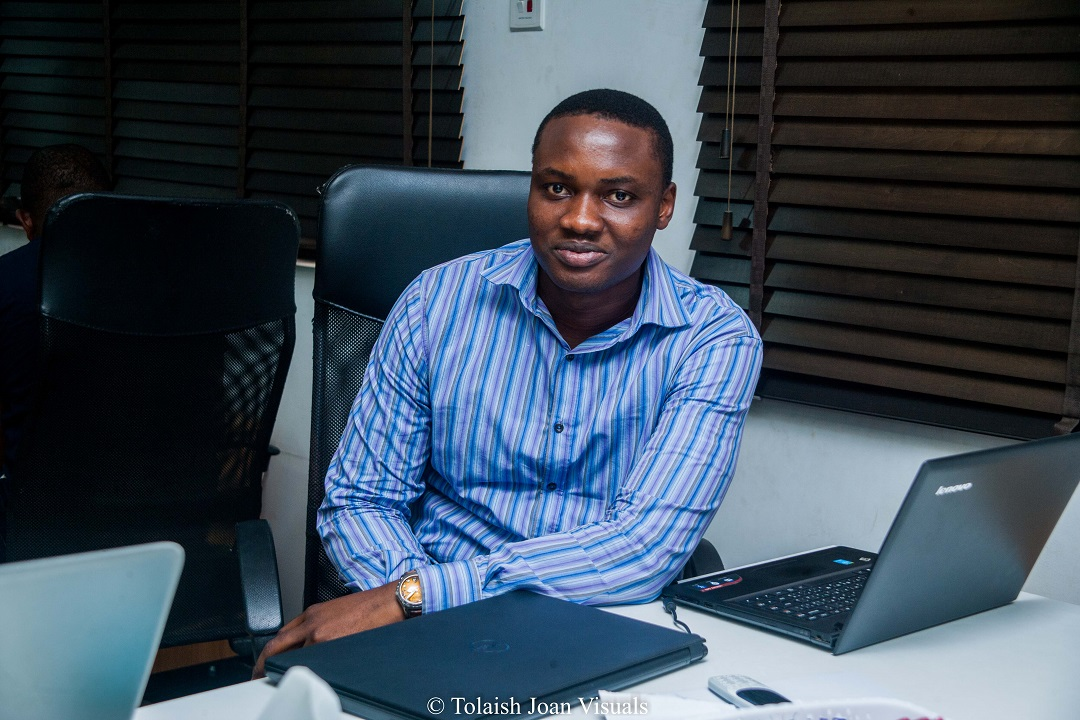
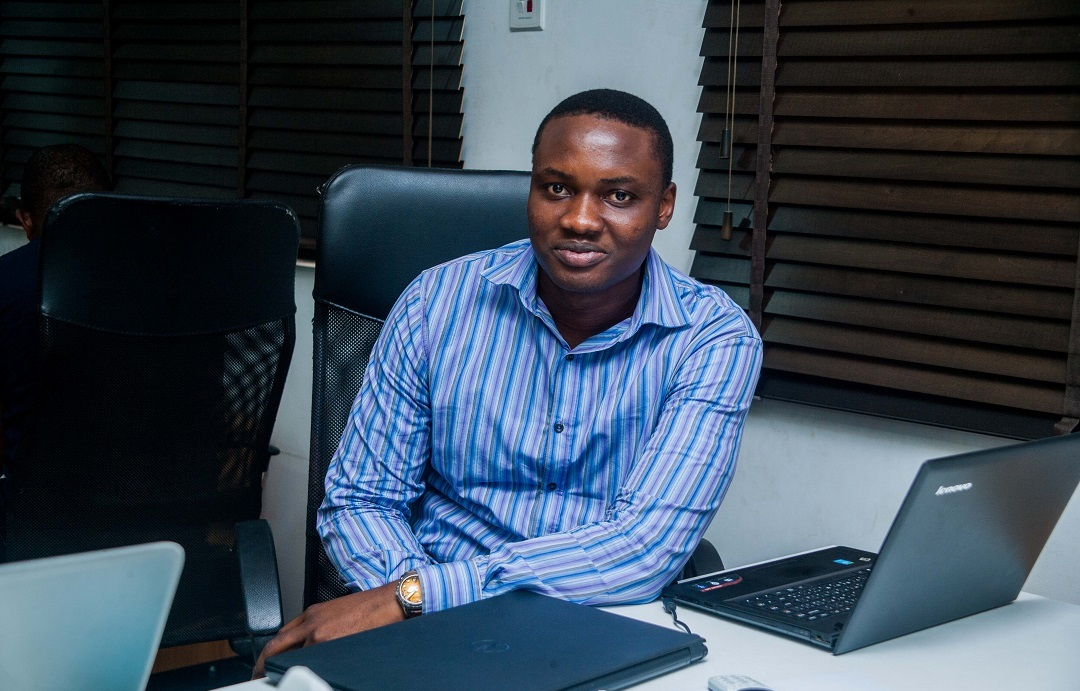
home page switch

diff --git a/src/index.css b/src/index.css
@@ -27,14 +27,14 @@ body {
   color: #000;
   overflow-x: hidden;
   word-spacing: .5rem;
-  display: flex;
-  flex-direction: column;
+  
   min-height: 100vh;
 }
 /* Navbar  */
 .bar{
   background: linear-gradient(90deg,#000,#0f0f0f) !important;
   color: #f3f3f3;
+  
 }
 /* Footer */
 .footer{
@@ -49,13 +49,37 @@ body {
 }
 /* buttons on home page */
 .cta-button {
-
+  background-color: #04011a; /* A vibrant purple */
+  color: white;
+  padding: 10px 20px;
+  border: none;
+  border-radius: 4px; /* Rounded corners */
+  font-size: 16px;
+  cursor: pointer;
+  transition: all 0.3s ease; /* Smooth transition for hover effects */
+  margin: 10px 10px;
+  box-shadow: 0 4px 10px rgba(0, 0, 0, 0.2); /* Subtle shadow */
 }
 
 .cta-button:hover {
-  background-color: #0056b3;
+  background-color: #02000d; /* Lighter purple on hover */
+  transform: translateY(-1px); /* Slight lift effect */
+  box-shadow: 0 6px 15px rgba(0, 0, 0, 0.3); /* More prominent shadow on hover */
 }
 
+/* secondary button  */
+.cta-button.secondary {
+  background-color: transparent;
+  color: #6c5ce7;
+  border: 2px solid #6c5ce7; /* Border matching the primary button's color */
+  box-shadow: none; /* No shadow for the secondary button initially */
+}
+
+.cta-button.secondary:hover {
+  background-color: #6c5ce7;
+  color: white;
+  box-shadow: 0 4px 10px rgba(0, 0, 0, 0.2);
+}
 /* portfolio page buttons fixed in App css*/
 
 .jumbotron {
@@ -81,36 +105,51 @@ code {
   
 }
 /* background image on the home page */
-.hero{
-  /* font-family: 'DynaPuff', cursive !important; */
-  background-image: linear-gradient(rgba(0, 0, 0, 0.1),
-   rgba(0, 0, 0, 0.2)),
-   url('./assets/img/hero/jt2_norm.jpg');
-  background-color: #5544ff30;
-  background-repeat: no-repeat;
-  background-position: center;
-  background-size: cover;
-  height: 100vh;
-}
-    
-
-.heromsg{
-  text-align: center;
-  position: absolute;
-  top: 60%;
-  left: 40%;
-  transform: translate(-50%, -50%);
-  color: white;
-  margin: auto;
-}
-.hero-buttons {
+.hero-content{
   display: flex;
-  flex-wrap: wrap;
-  justify-content: center; /* centers horizontally */
-  gap: 1rem; /* spacing between buttons */
-  font-weight: bolder;
+  flex-direction: column;
+  flex-flow: column wrap;
+  align-items: center;
+  justify-content: space-around;
+  padding: 4rem 2rem;
+  gap: 2rem;
+  width: 100%;
+}
+.hero-details{
+  flex: 1;
+  padding: 20px;
+}
+.hero-image {
+  flex: 1;
+  padding: 20px;
+  display: flex;
+  justify-content: center;
+}
+.hero-image img {
+  max-width: 100%;
+  height: auto;
+  border-radius: 12px;
+  mask-image: linear-gradient(to bottom, transparent, black 10%, black 90%, transparent);
+
+  
+}
+.imgcrop{
+  object-fit: cover;
+  object-position: center;
+
+  transform: translateY(-25%, -25%);
 }
 
+.hero-contact-btn{
+  padding: 0;
+  margin: 0;
+}
+.hero-contact-btn div{
+  padding: 0;
+  margin: 0;
+}
+
+/* end of hero section */
 .socials > ul{
   display: flex;
   flex-direction: row;
@@ -181,47 +220,29 @@ code {
 
 /* Page titles */
 .subtitle{
-  color: #f3f3f3 !important;
+  color: #de9393 !important;
 }
 
 /* Media queries */
-@media (max-width: 992px) {
-  h1 { font-size: 2.5rem; }
-  p { font-size: 1.1rem; }
 
-  .portfolio-home {
-    grid-template-columns: 1fr;
-  }
+@media screen and (min-width: 576px) {
+h1 { font-size: 2rem; }
+p { font-size: 1rem; }
 
-  .heromsg {
-    width: 80%;
-    font-size: 1.2rem;
-    text-align: center;
-  }
+.bar{
+  display: block;
 }
-
-@media (max-width: 576px) {
-  h1 { font-size: 2rem; }
-  p { font-size: 1rem; }
-  
-  .cta-button {
+.cta-button button {
     padding: 8px 16px;
     font-size: 0.9rem;
-  }
-  .heromsg {
-  text-align: center;
-  position: absolute;
-  top: 50%;
-  left: 50%;  /* center horizontally */
-  transform: translate(-50%, -50%);
-  color: #fff;
-  padding: 1rem;
-  width: 90%;      /* keeps text inside viewport */
-  max-width: 600px; /* prevents it from being too wide */
+    margin: 10px 0;
+    margin-bottom: 20px;
+}
+.hero-content{
+  flex-direction: row;
+}
+.hero-details, .hero-image{
+  width: 100%;
 }
 
-.hero-buttons {
-    flex-direction: column;
-    align-items: center;
-  }
 }

diff --git a/src/components/navbar/index.js b/src/components/navbar/index.js
@@ -1,49 +1,33 @@
 import React from 'react';
 import Navbar from 'react-bootstrap/Navbar';
 import Nav from 'react-bootstrap/Nav';
-
-// import Jtlogo from '../../assets/JT-logos/1.jpeg'
 import ContactModal from '../Modal/ContactModal'
-
-
 const Navigation = () => {
   // const [darkmode, setDarkmode] = React.useState(false)
-
     return (
     <>
     <Navbar className="bar sticky-top" bg="transparent" variant="dark" expand="md">
-        <Nav className="ml-1"> 
-        <Navbar.Brand href="/" rel="noreferrer">
-          Jt 
-        </Navbar.Brand>
+        <Nav className=""> 
+          <Navbar.Brand href="/" rel="noreferrer">
+            Jt 
+          </Navbar.Brand>
         </Nav>
         <Navbar.Toggle aria-controls="main"/>
         <Navbar.Collapse id="main">
-
           <Nav className="mr-auto">
-            {/* <Nav.Link href="/">Portfolio</Nav.Link> */}
             <Nav.Link rel="noreferrer" href="/portfolio" >Portfolio</Nav.Link>
-            <Nav.Link rel="noreferrer" target="_blank"
-                    href="https://github.com/Jogwums">
-                    Github
-                    </Nav.Link>
+            <Nav.Link rel="noreferrer" target="_blank"href="https://github.com/Jogwums">Github</Nav.Link>
           </Nav>
          <Nav className="ml-auto">
-          
             <Nav.Link rel="noreferrer" href="#"><ContactModal text={"Contact"}/></Nav.Link>
             <Nav.Link className="text-primary" target="_blank" rel="noreferrer"
                       href="https://www.linkedin.com/in/jonathan-ogwumike012016/">
                         LinkedIn
-                      </Nav.Link>
+            </Nav.Link>
           </Nav>
-          {/* <Nav>
-            <div>
-              <input className={darkmode} type="checkbox" name="darkmode" />
-            </div>
-          </Nav> */}
-      </Navbar.Collapse>
+        </Navbar.Collapse>
   </Navbar>
-    </>
+  </>
   )
 }
 

diff --git a/src/components/Hero Details/index.js b/src/components/Hero Details/index.js
@@ -1,28 +1,31 @@
 import React from 'react'
 
 // components
-import { Button } from 'react-bootstrap'
+
 import Nav from 'react-bootstrap/Nav';
 import ContactModal from '../Modal/ContactModal'
 
 const HeroDetails = () => {
   return (
     <>
+    <div className='hero-details'>
       <h1>I am Jonathan Ogwumike</h1>
-      <p>And I'm a Data Analyst</p>
+      <p>A Data Analyst & Web Developer building interactive dashboards,
+      clean interfaces, and impactful solutions.</p>
       <div className='hero-buttons'>
-      <Button href='/portfolio' size='lg' variant="outline-light">
-        <Nav.Link rel="noreferrer" href="/portfolio">
-          Portfolio
-        </Nav.Link>
-      </Button>
-      
-      <Button href='/' size='lg' variant="outline-dark">
-        <Nav.Link rel="noreferrer" href="#">
-          <ContactModal text={"Contact Me"}/>
-        </Nav.Link>
-      </Button>
+        <button className="cta-button " href='/portfolio' size='lg'>
+          <Nav.Link rel="noreferrer" href="/portfolio">
+            Portfolio
+          </Nav.Link>
+        </button>
+        
+        <button className="cta-button " href='/' size='lg'>
+          <Nav.Link rel="noreferrer" href="#">
+            <ContactModal className="hero-contact-btn" text={"Contact Me"}/>
+          </Nav.Link>
+        </button>
       </div>
+    </div>
     </>
   )
 }

diff --git a/src/pages/Home.js b/src/pages/Home.js
@@ -5,19 +5,21 @@ import Navigation from '../components/navbar'
 import FooterDetails from '../components/Footer'
 
 import HeroDetails from '../components/Hero Details'
-import Hero from '../components/Hero'
 import About from './About'
+
+import mainimage from '../assets/img/hero/jt2.jpg'
 
 
 const Home = ({navi, text}) => {
     return (
         <>
             <Navigation />
-            <Hero>
-                <div className="heromsg">
-                <HeroDetails />
+                <div className="hero-content">
+                    <HeroDetails />
+                    <div className="hero-image">
+                        <img className='imgcrop' src={mainimage} alt="Jonathan working" />
+                    </div>
                 </div>
-            </Hero>
             <About />
             <FooterDetails />
         </>

diff --git a/src/components/Card/index.js b/src/components/Card/index.js
@@ -7,7 +7,9 @@ const Card = ({image, text, link, text2}) => {
     return (
     <>
     <section className="mx-auto" id="scroll">
-            <div className="card rounded-lg" style={{width: "16.5rem", background:"transparent", border: "none"}}>
+            <div className="card rounded-lg" style={{width: "90%", background:"transparent", border: "none",
+                padding:"10px", margin:"5px", height:"75vh"
+            }}>
             <a href={link} target="_blank" rel="noreferrer">
             <img className="card-img-top rounded-lg" src={image} alt="..." />
             {/* <img className="card-img-top " src={image} alt="..." /> */}

diff --git a/src/pages/Portfolio.js b/src/pages/Portfolio.js
@@ -17,7 +17,7 @@ const Portfolio = () => {
                     <Col sm={12} md={6} className='m-0 p-0'>
                         <div className="portfolio-card-text-da">
                             <ImageCard
-                                style={{ width: "50%" }}
+                                style={{ width: "80%" }}
                                 image={dash01}
                                 text={"Data Portfolio"}
                                 text2={"View projects created using tools like power BI, python and Tableau"}

diff --git a/src/components/Hero/index.js b/src/components/Hero/index.js
@@ -3,12 +3,6 @@ import React from 'react'
 const Hero = (props) => {
   return (
     <>
-        <div className='hero'>
-              {props.children}
-            <div className='heromsg'>
-            </div>
-        </div>
-        
     </>
   )
 }
